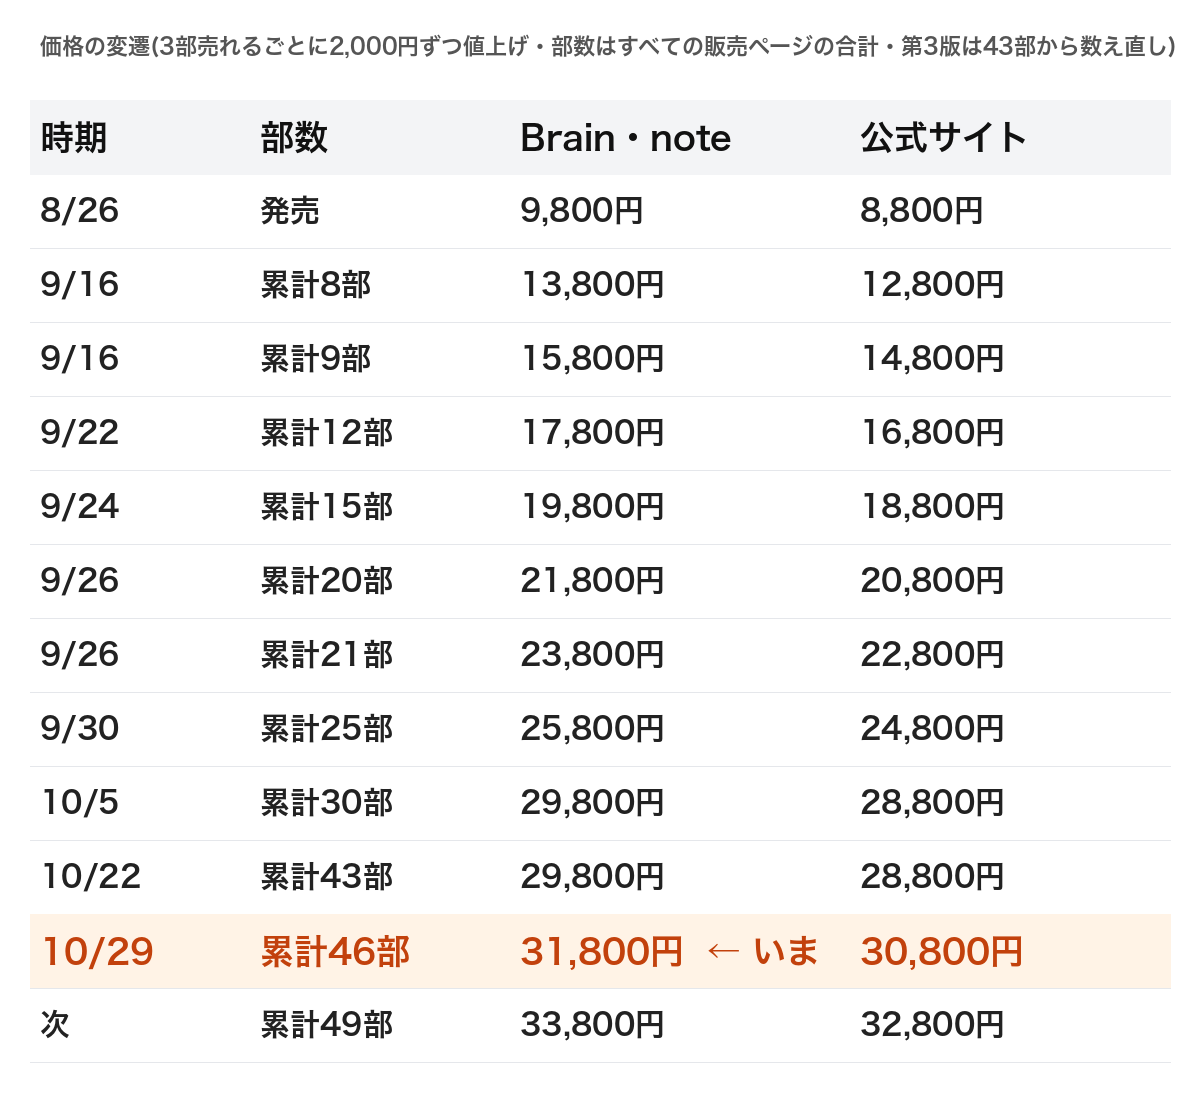
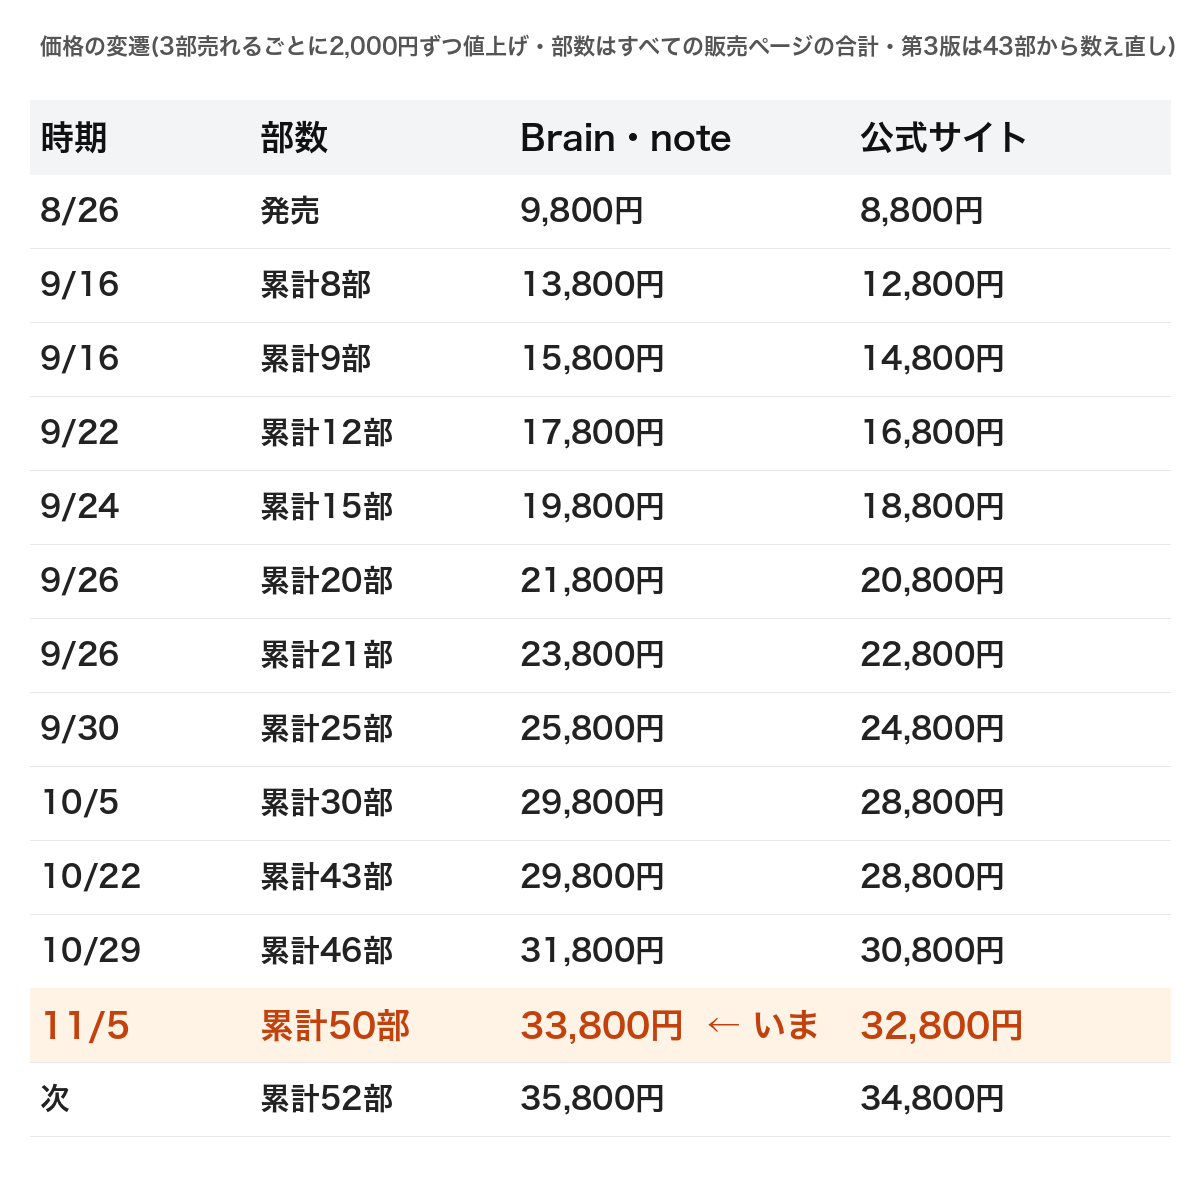
Raise the ebay textbook to tier 13 (50 sold): 32,800 yen direct, 33,800 yen on Brain and note
Automated by auto_tier_up.py

Changed region(s): [[0.0308, 0.0917, 0.9867, 0.9478], [0.0308, 0.0306, 0.9867, 0.0612]]

diff --git a/kyokasho/tokushoho.html b/kyokasho/tokushoho.html
@@ -26,7 +26,7 @@ a{color:#0f3fa8}.back{margin-top:30px;font-size:14px}.back a{margin-right:14px;f
 <tr><th>電話番号</th><td>090-2630-2435(お問い合わせは、下のメールまたは購入者フォームをご利用ください)</td></tr>
 <tr><th>メールアドレス</th><td>info@osara-rock.com</td></tr>
 <tr><th>販売URL</th><td><a href="https://rental-space.net/kyokasho/">レンタルスペース経営の教科書</a> / <a href="https://rental-space.net/kyokasho/ebay/">AI × eBay輸出の教科書</a> / <a href="https://rental-space.net/kyokasho/hp/">公式HPメーカー</a> / <a href="https://rental-space.net/kyokasho/dance/">ダンススタジオ完全ロードマップ</a></td></tr>
-<tr><th>販売価格</th><td>各商品ページ・決済画面に表示した価格(税込)。レンタルスペース経営の教科書 ¥19,800(3部売れるごとに¥2,000ずつ値上げ・直販上限¥27,800)/AI × eBay輸出の教科書(第3版) ¥30,800(3部売れるごとに¥2,000ずつ値上げ・直販上限¥39,800)/AI × eBay輸出の教科書(第3版)+レンタルスペース経営の教科書 セット ¥44,800(3部売れるごとに¥2,000ずつ値上げ・直販上限¥54,800・公式サイトのみ)/eBay教科書の購入者向け レンタルスペース経営の教科書 ¥14,800(固定・購入者だけの非公開リンク)/レンタルスペースの公式HPメーカー ¥450(3部売れるごとに値上げ)/ダンススタジオ完全ロードマップ ¥14,800(3部売れるごとに¥3,000ずつ値上げ・直販上限¥28,800)。セットを選ぶ場合は決済画面に各商品の価格と合計額を表示します。</td></tr>
+<tr><th>販売価格</th><td>各商品ページ・決済画面に表示した価格(税込)。レンタルスペース経営の教科書 ¥19,800(3部売れるごとに¥2,000ずつ値上げ・直販上限¥27,800)/AI × eBay輸出の教科書(第3版) ¥32,800(3部売れるごとに¥2,000ずつ値上げ・直販上限¥39,800)/AI × eBay輸出の教科書(第3版)+レンタルスペース経営の教科書 セット ¥44,800(3部売れるごとに¥2,000ずつ値上げ・直販上限¥54,800・公式サイトのみ)/eBay教科書の購入者向け レンタルスペース経営の教科書 ¥14,800(固定・購入者だけの非公開リンク)/レンタルスペースの公式HPメーカー ¥450(3部売れるごとに値上げ)/ダンススタジオ完全ロードマップ ¥14,800(3部売れるごとに¥3,000ずつ値上げ・直販上限¥28,800)。セットを選ぶ場合は決済画面に各商品の価格と合計額を表示します。</td></tr>
 <tr><th>商品代金以外の必要料金</th><td>インターネット接続の通信費はお客様のご負担です。教材とブラウザツールの月額料金はありません。公式HPメーカー、およびダンス教材付録の公式サイト作成スキルを使う場合は、別途Claude CodeかCodexの契約が必要です。AIサービスの契約費用は各社の料金に従い、お客様のご負担となります。</td></tr>
 <tr><th>支払方法</th><td>クレジットカード(決済代行: Stripe)</td></tr>
 <tr><th>支払時期</th><td>ご注文時に決済が確定します</td></tr>
